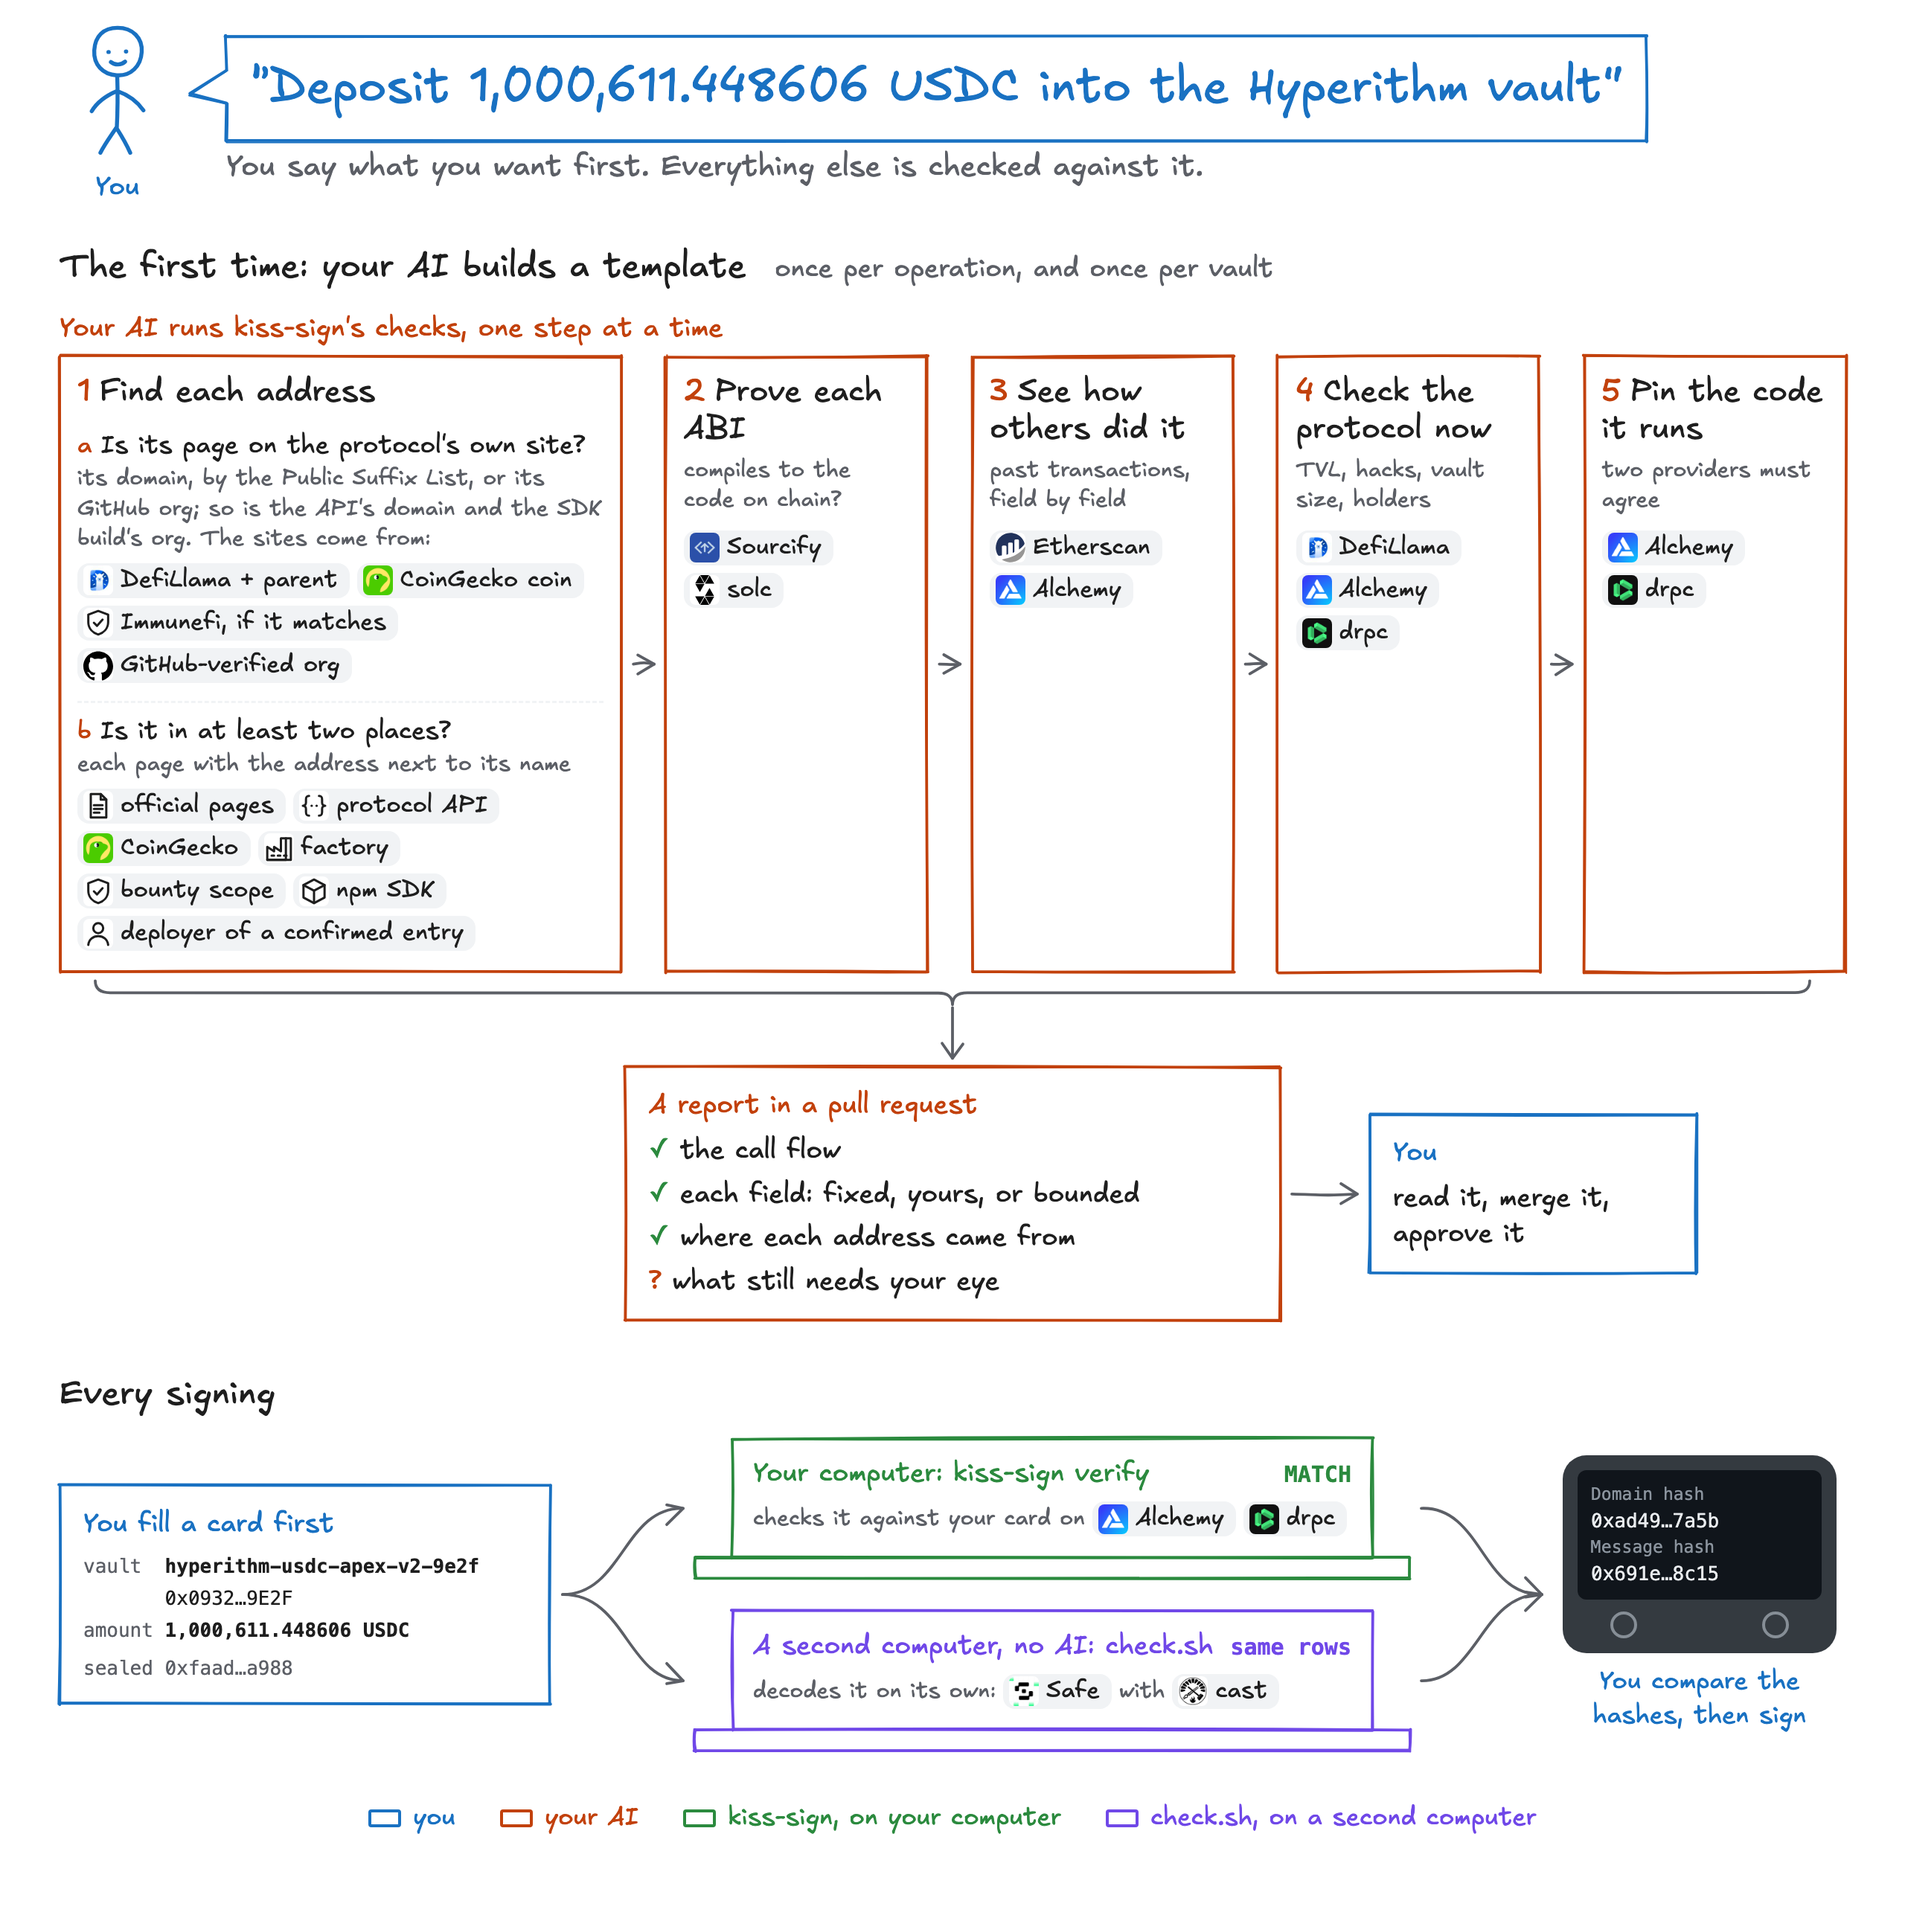
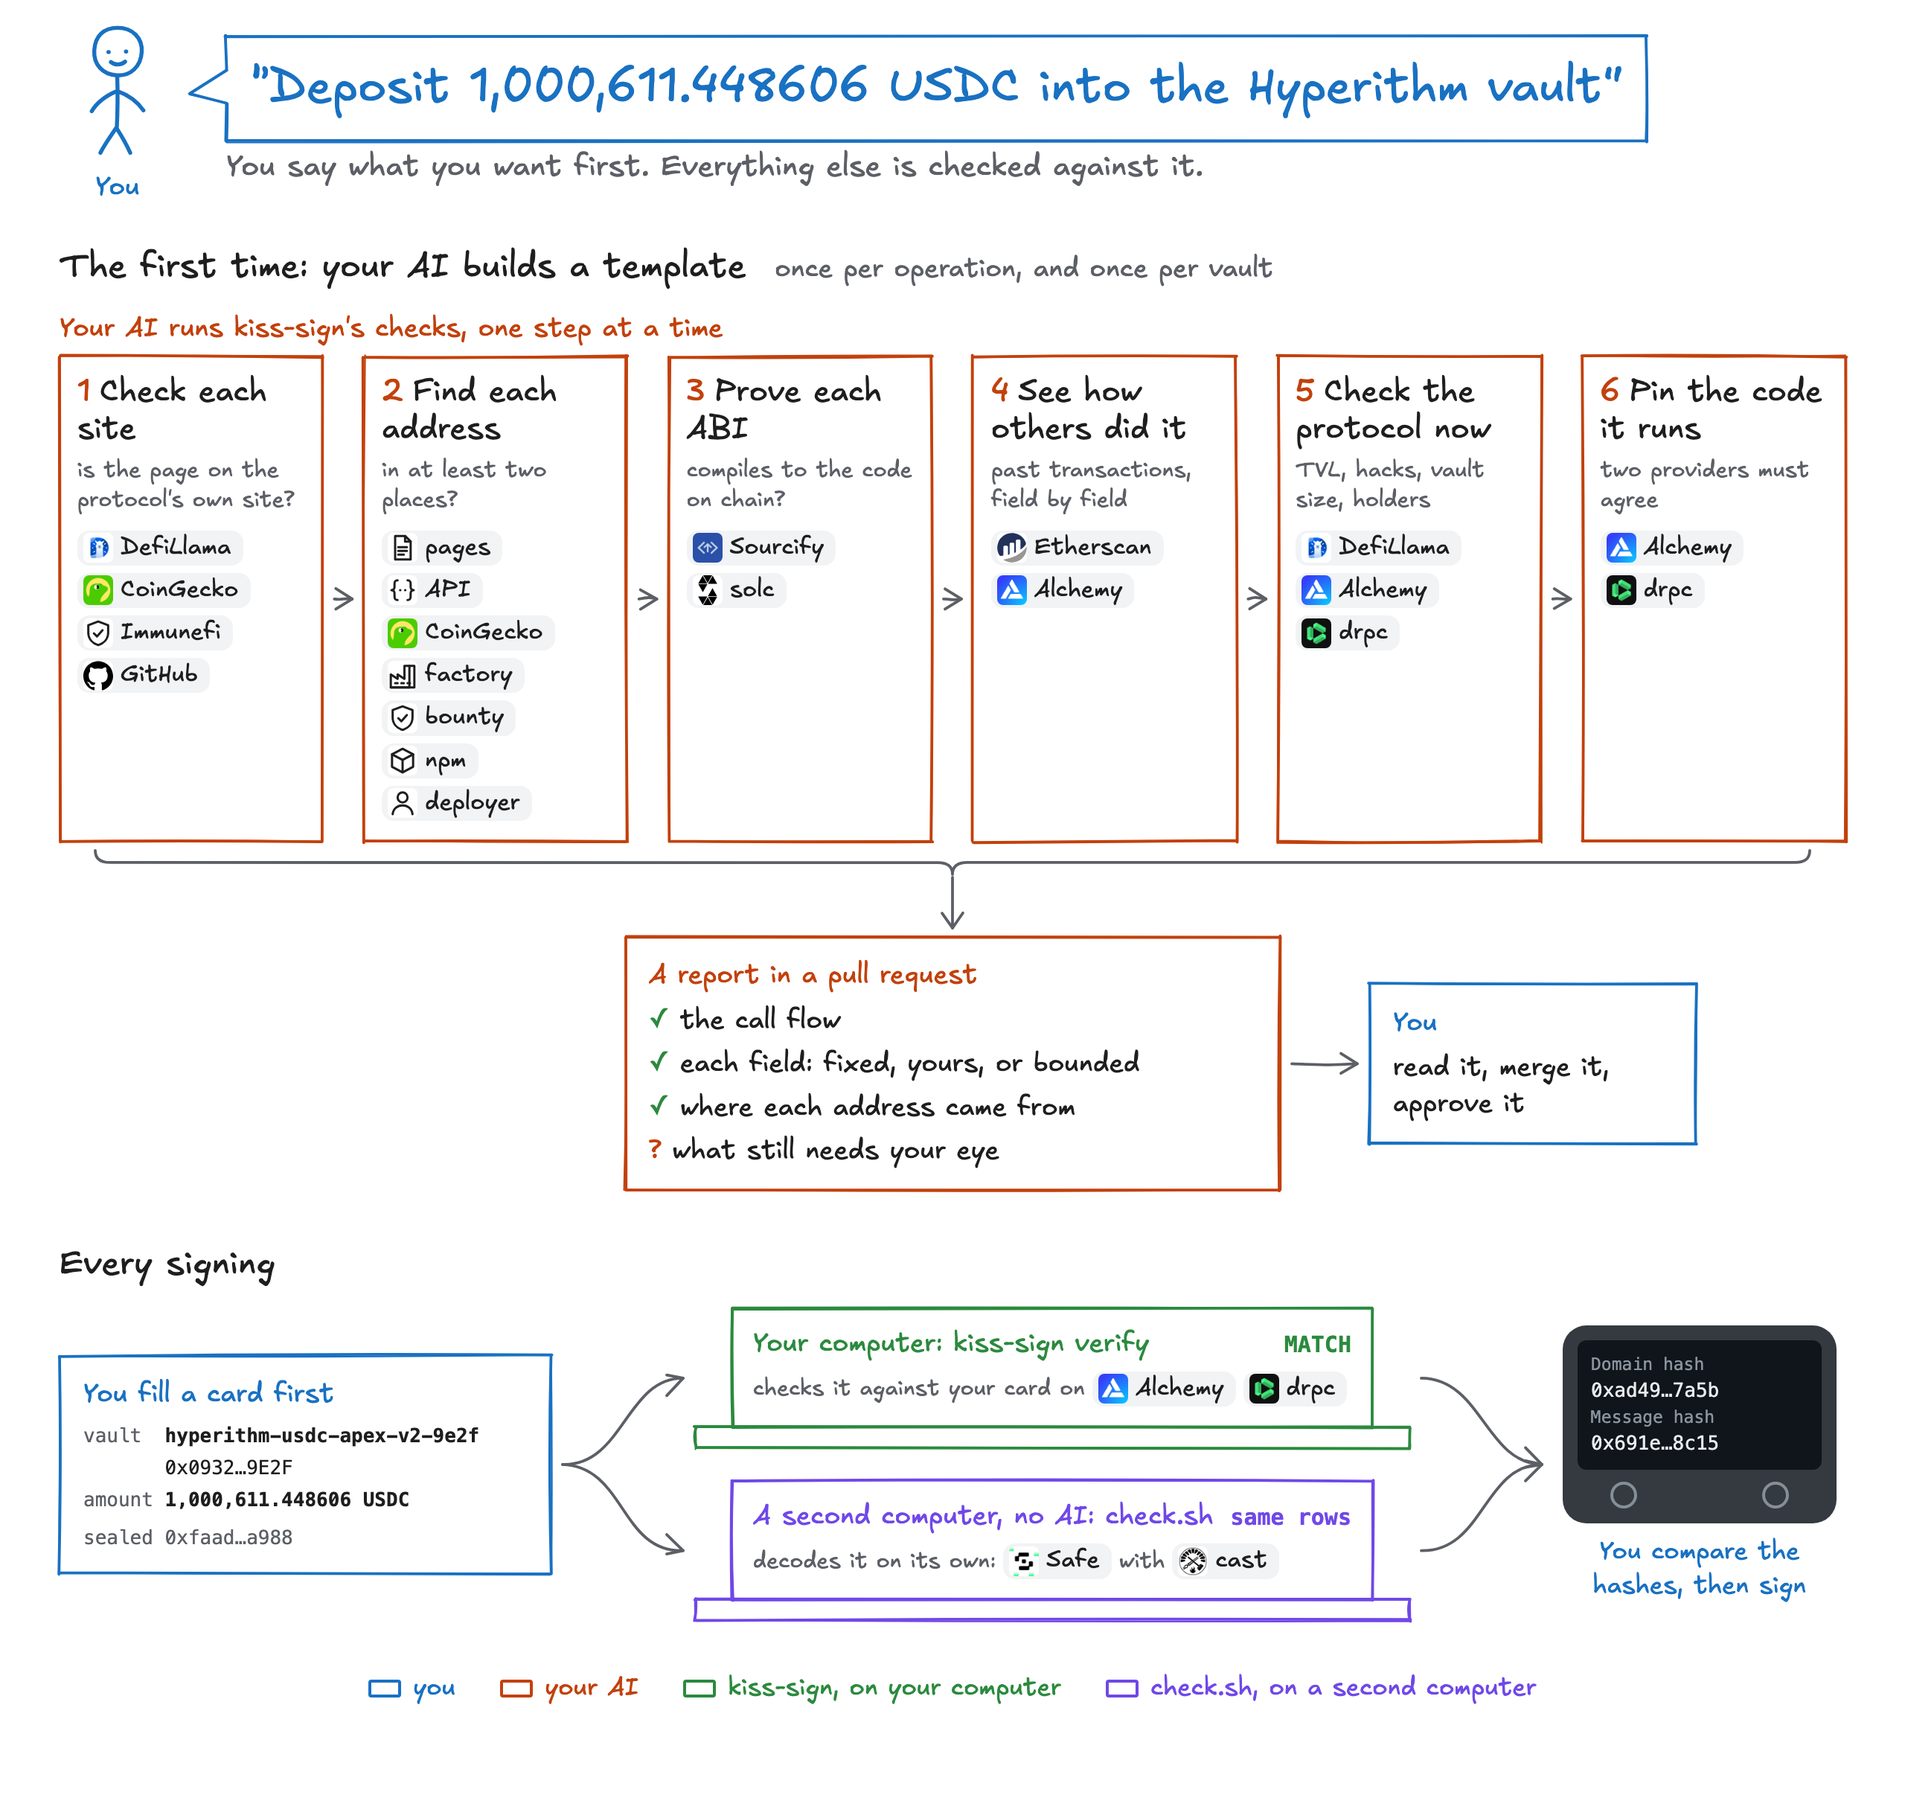
Split the diagram's address step into a site check and a two-places check

diff --git a/docs/diagrams/readme-overview.html b/docs/diagrams/readme-overview.html
@@ -48,11 +48,7 @@
   .lg.plain { padding-left: 8px; }
   :root.dark .lg img.mono-logo { filter: invert(1); background: transparent; }
 
-  .chain .steps { display: grid; grid-template-columns: minmax(0, 2.15fr) repeat(4, minmax(0, 1fr)); gap: 30px; margin-top: 6px; }
-  .step .sub { margin-top: 8px; }
-  .step .sub + .sub { border-top: 1.5px dashed var(--chip); padding-top: 8px; }
-  .step .sub .q { font-size: 17px; }
-  .step .sub .q .n { font-size: 17px; }
+  .chain .steps { display: grid; grid-template-columns: repeat(6, minmax(0, 1fr)); gap: 28px; margin-top: 6px; }
   .step { padding: 12px 12px 14px; display: grid; align-content: start; gap: 4px; }
   .step .t { font-size: 21px; line-height: 1.2; }
   .step .n { color: var(--ai); margin-right: 6px; }
@@ -113,11 +109,12 @@
   <div class="chain ai" id="chain">
     <div class="who">Your AI runs kiss-sign's checks, one step at a time</div>
     <div class="steps">
-      <div class="sk step" id="s1"><div class="t"><span class="n">1</span>Find each address</div><div class="sub"><div class="q"><span class="n">a</span>Is its page on the protocol's own site?</div><div class="note">its domain, by the Public Suffix List, or its GitHub org; so is the API's domain and the SDK build's org. The sites come from:</div><div class="logos"><span class="lg"><img src="logos/defillama.jpg" alt="">DefiLlama + parent</span><span class="lg"><img src="logos/coingecko.png" alt="">CoinGecko coin</span><span class="lg"><img class="mono-logo" src="logos/bounty.svg" alt="">Immunefi, if it matches</span><span class="lg"><img class="mono-logo" src="logos/github.svg" alt="">GitHub-verified org</span></div></div><div class="sub"><div class="q"><span class="n">b</span>Is it in at least two places?</div><div class="note">each page with the address next to its name</div><div class="logos"><span class="lg"><img class="mono-logo" src="logos/docs.svg" alt="">official pages</span><span class="lg"><img class="mono-logo" src="logos/api.svg" alt="">protocol API</span><span class="lg"><img src="logos/coingecko.png" alt="">CoinGecko</span><span class="lg"><img class="mono-logo" src="logos/factory.svg" alt="">factory</span><span class="lg"><img class="mono-logo" src="logos/bounty.svg" alt="">bounty scope</span><span class="lg"><img class="mono-logo" src="logos/package.svg" alt="">npm SDK</span><span class="lg"><img class="mono-logo" src="logos/deployer.svg" alt="">deployer of a confirmed entry</span></div></div></div>
-      <div class="sk step" id="s2"><div class="t"><span class="n">2</span>Prove each ABI</div><div class="note">compiles to the code on chain?</div><div class="logos"><span class="lg"><img src="logos/sourcify.jpg" alt="">Sourcify</span><span class="lg"><img class="mono-logo" src="logos/solidity.svg" alt="">solc</span></div></div>
-      <div class="sk step" id="s3"><div class="t"><span class="n">3</span>See how others did it</div><div class="note">past transactions, field by field</div><div class="logos"><span class="lg"><img src="logos/etherscan.svg" alt="">Etherscan</span><span class="lg"><img src="logos/alchemy.png" alt="">Alchemy</span></div></div>
-      <div class="sk step" id="s4"><div class="t"><span class="n">4</span>Check the protocol now</div><div class="note">TVL, hacks, vault size, holders</div><div class="logos"><span class="lg"><img src="logos/defillama.jpg" alt="">DefiLlama</span><span class="lg"><img src="logos/alchemy.png" alt="">Alchemy</span><span class="lg"><img src="logos/drpc.png" alt="">drpc</span></div></div>
-      <div class="sk step" id="s5"><div class="t"><span class="n">5</span>Pin the code it runs</div><div class="note">two providers must agree</div><div class="logos"><span class="lg"><img src="logos/alchemy.png" alt="">Alchemy</span><span class="lg"><img src="logos/drpc.png" alt="">drpc</span></div></div>
+      <div class="sk step" id="s1"><div class="t"><span class="n">1</span>Check each site</div><div class="note">is the page on the protocol's own site?</div><div class="logos"><span class="lg"><img src="logos/defillama.jpg" alt="">DefiLlama</span><span class="lg"><img src="logos/coingecko.png" alt="">CoinGecko</span><span class="lg"><img class="mono-logo" src="logos/bounty.svg" alt="">Immunefi</span><span class="lg"><img class="mono-logo" src="logos/github.svg" alt="">GitHub</span></div></div>
+      <div class="sk step" id="s2"><div class="t"><span class="n">2</span>Find each address</div><div class="note">in at least two places?</div><div class="logos"><span class="lg"><img class="mono-logo" src="logos/docs.svg" alt="">pages</span><span class="lg"><img class="mono-logo" src="logos/api.svg" alt="">API</span><span class="lg"><img src="logos/coingecko.png" alt="">CoinGecko</span><span class="lg"><img class="mono-logo" src="logos/factory.svg" alt="">factory</span><span class="lg"><img class="mono-logo" src="logos/bounty.svg" alt="">bounty</span><span class="lg"><img class="mono-logo" src="logos/package.svg" alt="">npm</span><span class="lg"><img class="mono-logo" src="logos/deployer.svg" alt="">deployer</span></div></div>
+      <div class="sk step" id="s3"><div class="t"><span class="n">3</span>Prove each ABI</div><div class="note">compiles to the code on chain?</div><div class="logos"><span class="lg"><img src="logos/sourcify.jpg" alt="">Sourcify</span><span class="lg"><img class="mono-logo" src="logos/solidity.svg" alt="">solc</span></div></div>
+      <div class="sk step" id="s4"><div class="t"><span class="n">4</span>See how others did it</div><div class="note">past transactions, field by field</div><div class="logos"><span class="lg"><img src="logos/etherscan.svg" alt="">Etherscan</span><span class="lg"><img src="logos/alchemy.png" alt="">Alchemy</span></div></div>
+      <div class="sk step" id="s5"><div class="t"><span class="n">5</span>Check the protocol now</div><div class="note">TVL, hacks, vault size, holders</div><div class="logos"><span class="lg"><img src="logos/defillama.jpg" alt="">DefiLlama</span><span class="lg"><img src="logos/alchemy.png" alt="">Alchemy</span><span class="lg"><img src="logos/drpc.png" alt="">drpc</span></div></div>
+      <div class="sk step" id="s6"><div class="t"><span class="n">6</span>Pin the code it runs</div><div class="note">two providers must agree</div><div class="logos"><span class="lg"><img src="logos/alchemy.png" alt="">Alchemy</span><span class="lg"><img src="logos/drpc.png" alt="">drpc</span></div></div>
     </div>
   </div>
   <div class="then">
@@ -198,7 +195,7 @@ Promise.all([document.fonts.ready, new Promise((ok) => (document.readyState === 
     const dy = (y2 - y1) * 0.08, s = 11;
     draw(`M${x2 - s} ${y2 - s * 0.6 - dy + rnd()} L${x2} ${y2} L${x2 - s} ${y2 + s * 0.6 - dy + rnd()}`, ink, 1.9);
   };
-  [['s1', 's2'], ['s2', 's3'], ['s3', 's4'], ['s4', 's5'], ['report', 'merge']].forEach(([a, b]) => arrow(a, b));
+  [['s1', 's2'], ['s2', 's3'], ['s3', 's4'], ['s4', 's5'], ['s5', 's6'], ['report', 'merge']].forEach(([a, b]) => arrow(a, b));
   {
     const steps = document.querySelector('.steps').getBoundingClientRect(), rb = document.getElementById('report').getBoundingClientRect();
     const y = steps.bottom + 14 + scrollY, l = steps.left + 24 + scrollX, r = steps.right - 24 + scrollX, mid = (l + r) / 2;
